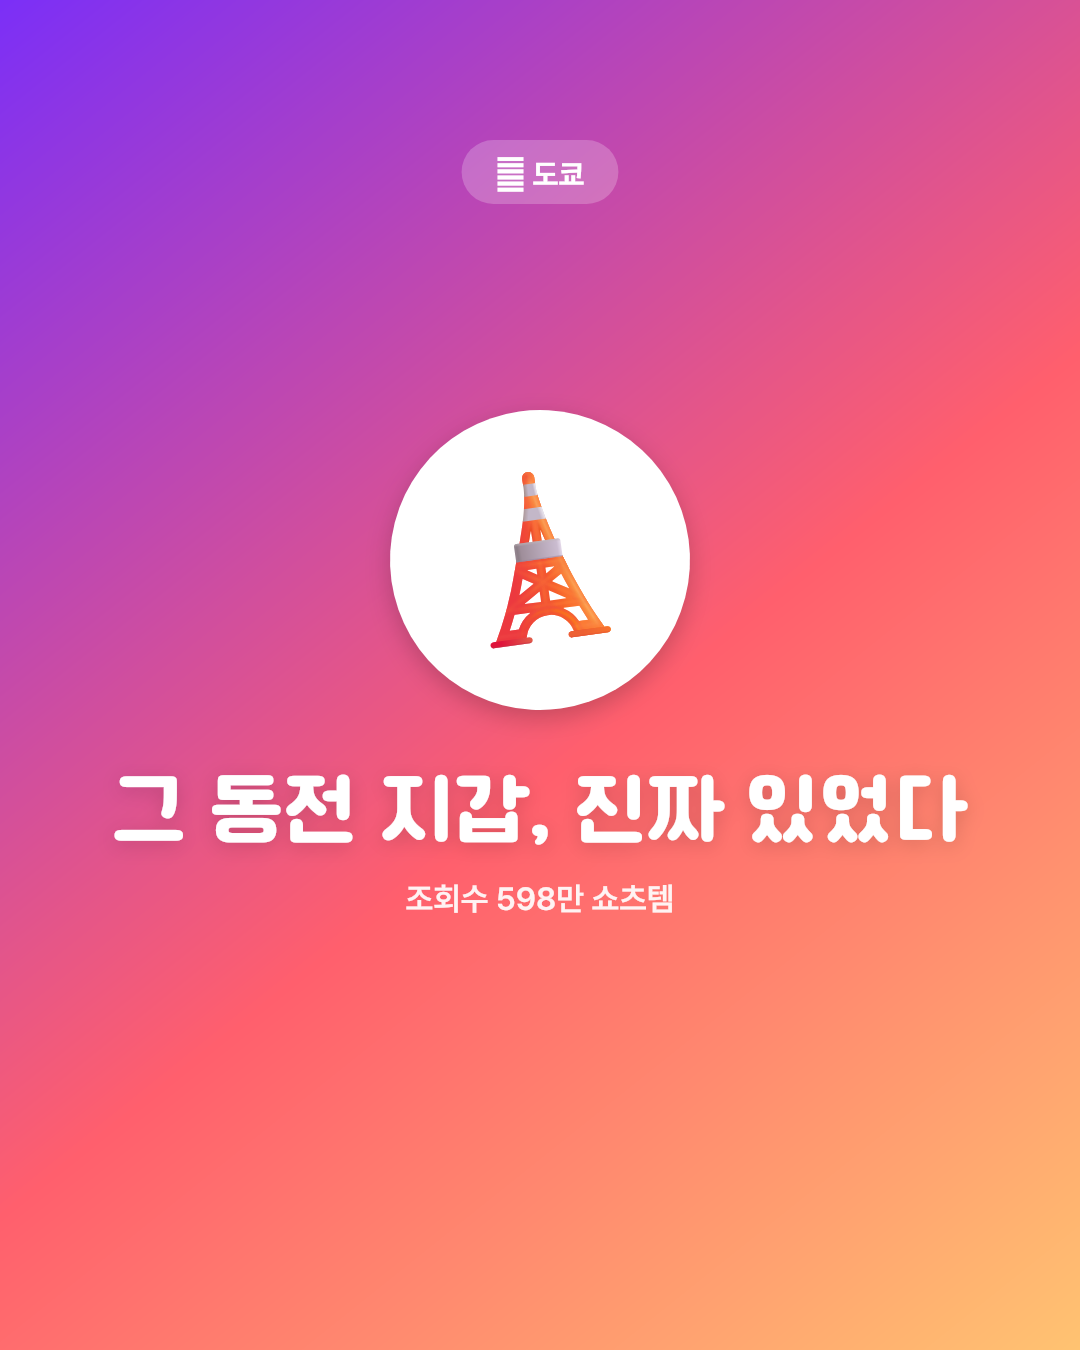
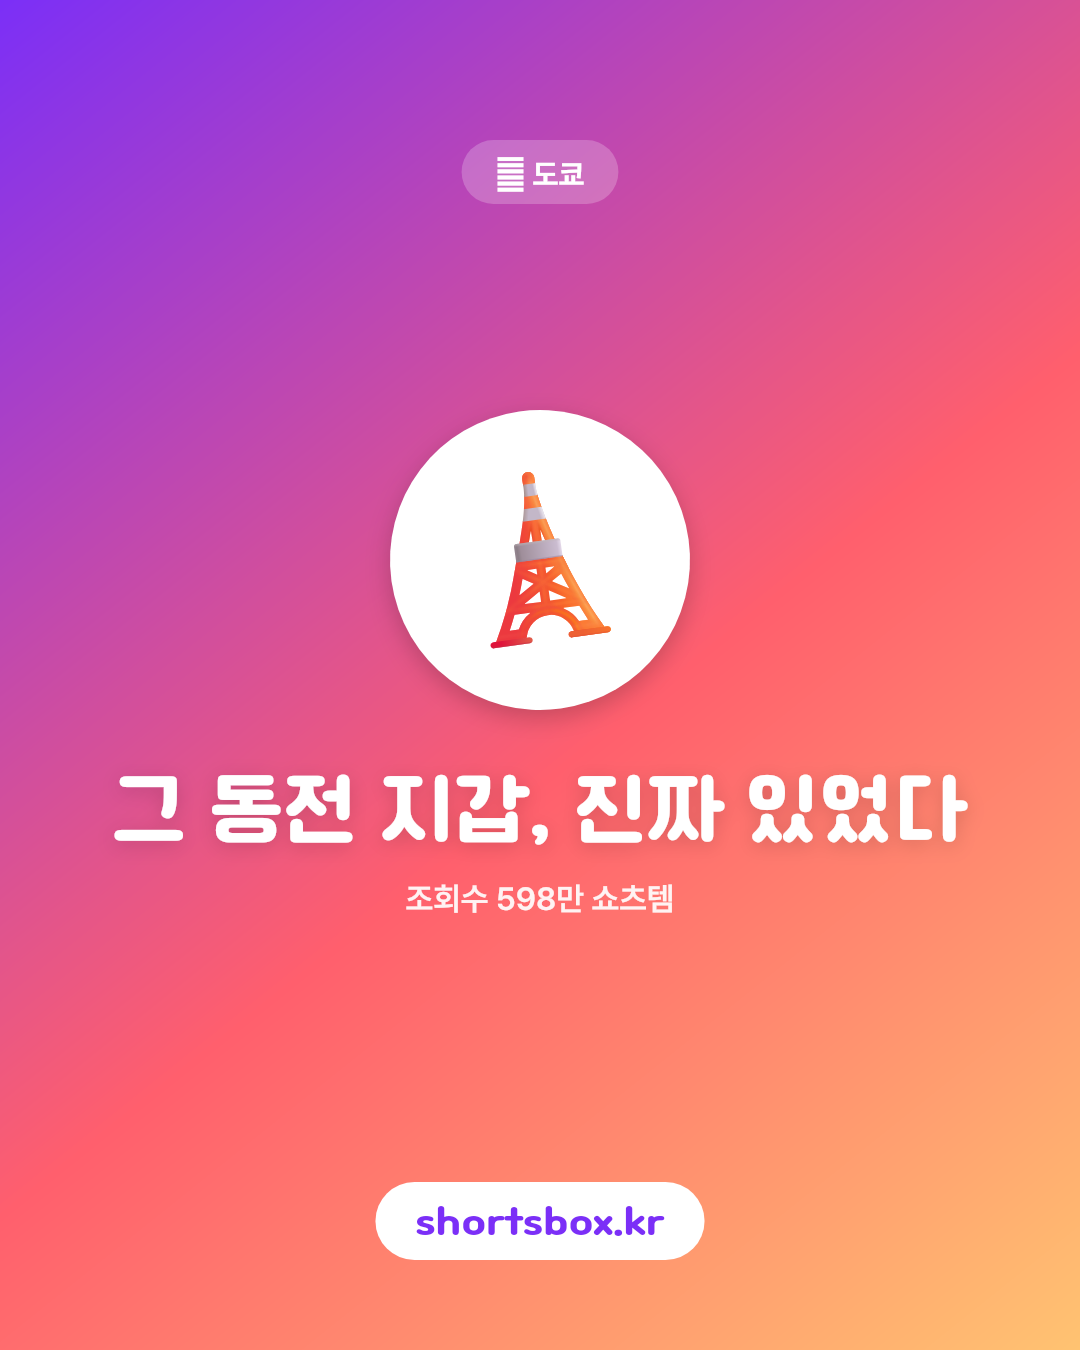
매일 카드에 shortsbox.kr 주소 배지 항상 고정 노출
헤드라인/보조문구가 매일 바뀌어도 사이트 주소는 하단에 항상 보이도록 수정.

Changed region(s): [[0.3361, 0.8711, 0.6722, 0.9333]]

diff --git a/scripts/generate-daily-card.js b/scripts/generate-daily-card.js
@@ -116,6 +116,24 @@ function drawSub(ctx, cx, startY, text, fontSize = 34, lineHeight = 1.4){
   lines.forEach((line, i) => ctx.fillText(line, cx, startY + i * fontSize * lineHeight));
 }
 
+/* 카드 하단에 항상 고정으로 박아두는 사이트 주소 배지 — 헤드라인/보조문구와 무관하게 항상 노출 */
+function drawUrlBadge(ctx, cx, bottomY){
+  const text = 'shortsbox.kr';
+  ctx.font = '38px "Cafe24 Ssurround"';
+  const textW = ctx.measureText(text).width;
+  const padX = 40, h = 38 + 40;
+  const w = textW + padX * 2;
+  const y = bottomY - h;
+  ctx.beginPath();
+  ctx.roundRect ? ctx.roundRect(cx - w / 2, y, w, h, h / 2) : ctx.rect(cx - w / 2, y, w, h);
+  ctx.fillStyle = '#fff';
+  ctx.fill();
+  ctx.fillStyle = '#7B2FF7';
+  ctx.textAlign = 'center';
+  ctx.textBaseline = 'middle';
+  ctx.fillText(text, cx, y + h / 2 + 3);
+}
+
 async function main(){
   const [slug, headline, subline] = process.argv.slice(2);
   if(!slug || !headline){
@@ -147,7 +165,8 @@ async function main(){
   }
   const startY = 830 - (lines.length - 1) * fontSize * 1.25 / 2;
   const headlineEnd = drawHeadline(ctx, CX, startY, lines, fontSize);
-  drawSub(ctx, CX, headlineEnd + 80, subline || 'shortsbox.kr', 32);
+  if(subline) drawSub(ctx, CX, headlineEnd + 80, subline, 32);
+  drawUrlBadge(ctx, CX, H - 90);
 
   const today = new Date().toISOString().slice(0, 10);
   const outName = `daily-${slug}-${today}.png`;
